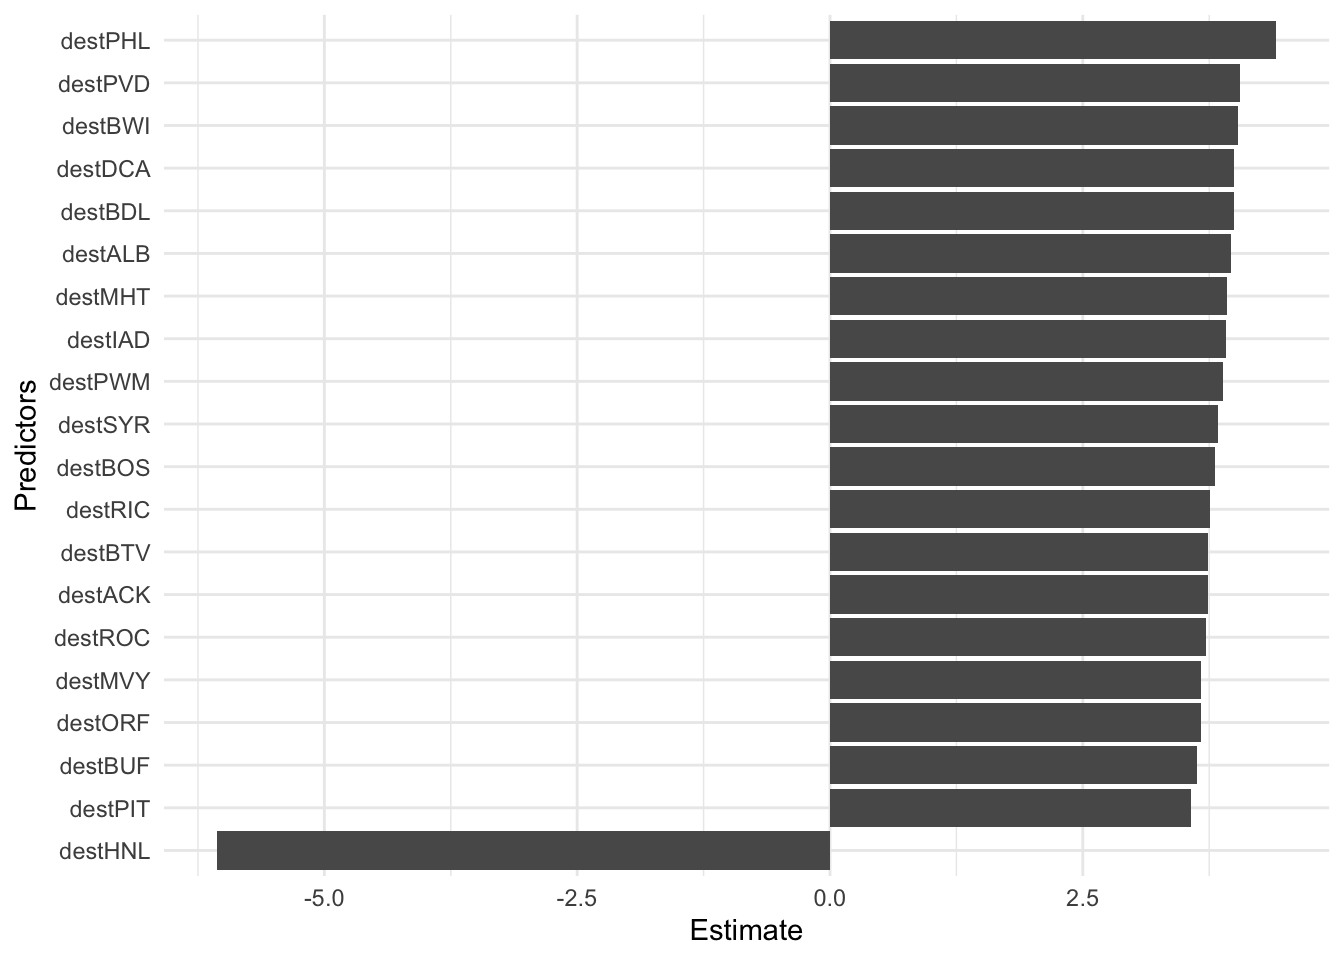
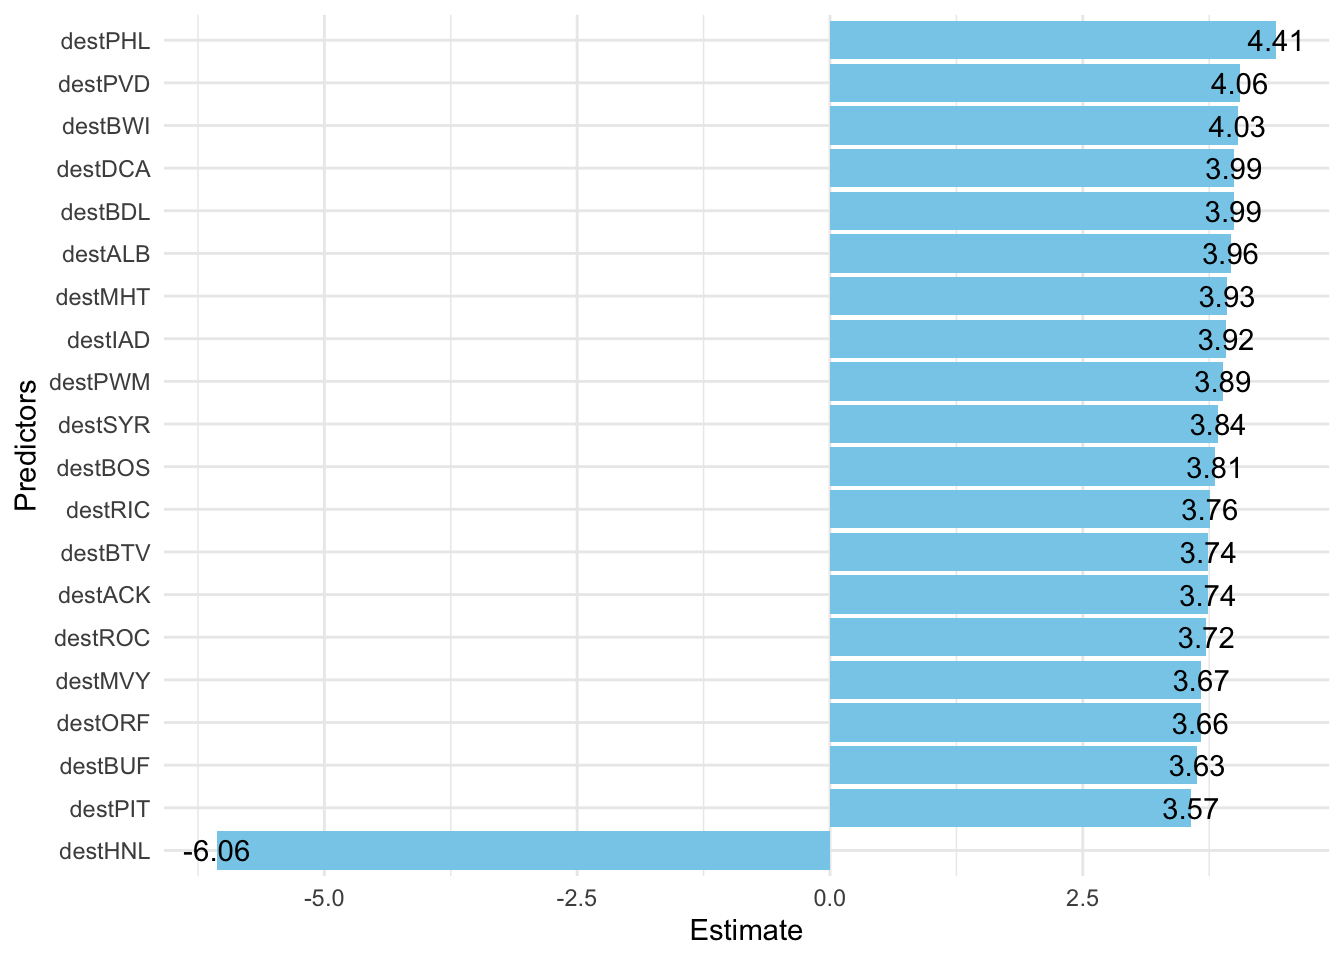
change the color to skyblue and center all the pics

Changed region(s): [[0.125, 0.0, 0.9688, 0.9062]]

diff --git a/MLR.html b/MLR.html
@@ -309,7 +309,7 @@ M = cor(df_2013_mlr |&gt; select_if(is.numeric))
 corrplot(M, order = &#39;AOE&#39;, type = &#39;upper&#39;, tl.pos = &#39;n&#39;, method = &quot;number&quot;)
 corrplot(M, add = TRUE, type = &#39;lower&#39;, method = &#39;ellipse&#39;, order = &#39;AOE&#39;,
          diag = FALSE, tl.pos = &#39;l&#39;, cl.pos = &#39;n&#39;,tl.col=&#39;black&#39;)</code></pre>
-<p><img src="MLR_files/figure-html/scale-1.png" width="672" /></p>
+<p><img src="MLR_files/figure-html/scale-1.png" width="672" style="display: block; margin: auto;" /></p>
 <pre class="r"><code>#corrplot(cor(df_2013_mlr |&gt; select_if(is.numeric)),  method = &quot;number&quot;)
 # delete distance and wind_speed for less unqiue value
 
@@ -327,11 +327,13 @@ coeff &lt;- tidy(fit_AIC) %&gt;%
   filter(term != &#39;(Intercept)&#39;) %&gt;% 
   slice(1:20)
 ggplot(coeff, 
-       aes(x = reorder(term,estimate), y = estimate)) + geom_col() + coord_flip()+
+       aes(x = reorder(term,estimate), y = estimate)) + 
+  geom_col(fill = &#39;skyblue&#39;) + coord_flip()+
+  geom_text(aes(label = round(estimate,2)))+
   xlab(&#39;Predictors&#39;)+
   ylab(&#39;Estimate&#39;)+
   theme(legend.position = &quot;none&quot;) + theme_minimal()</code></pre>
-<img src="MLR_files/figure-html/estimate%20plot-1.png" width="672" />
+<img src="MLR_files/figure-html/estimate%20plot-1.png" width="672" style="display: block; margin: auto;" />
 <table style="text-align:center">
 <caption>
 <strong>Regression Results</strong>
